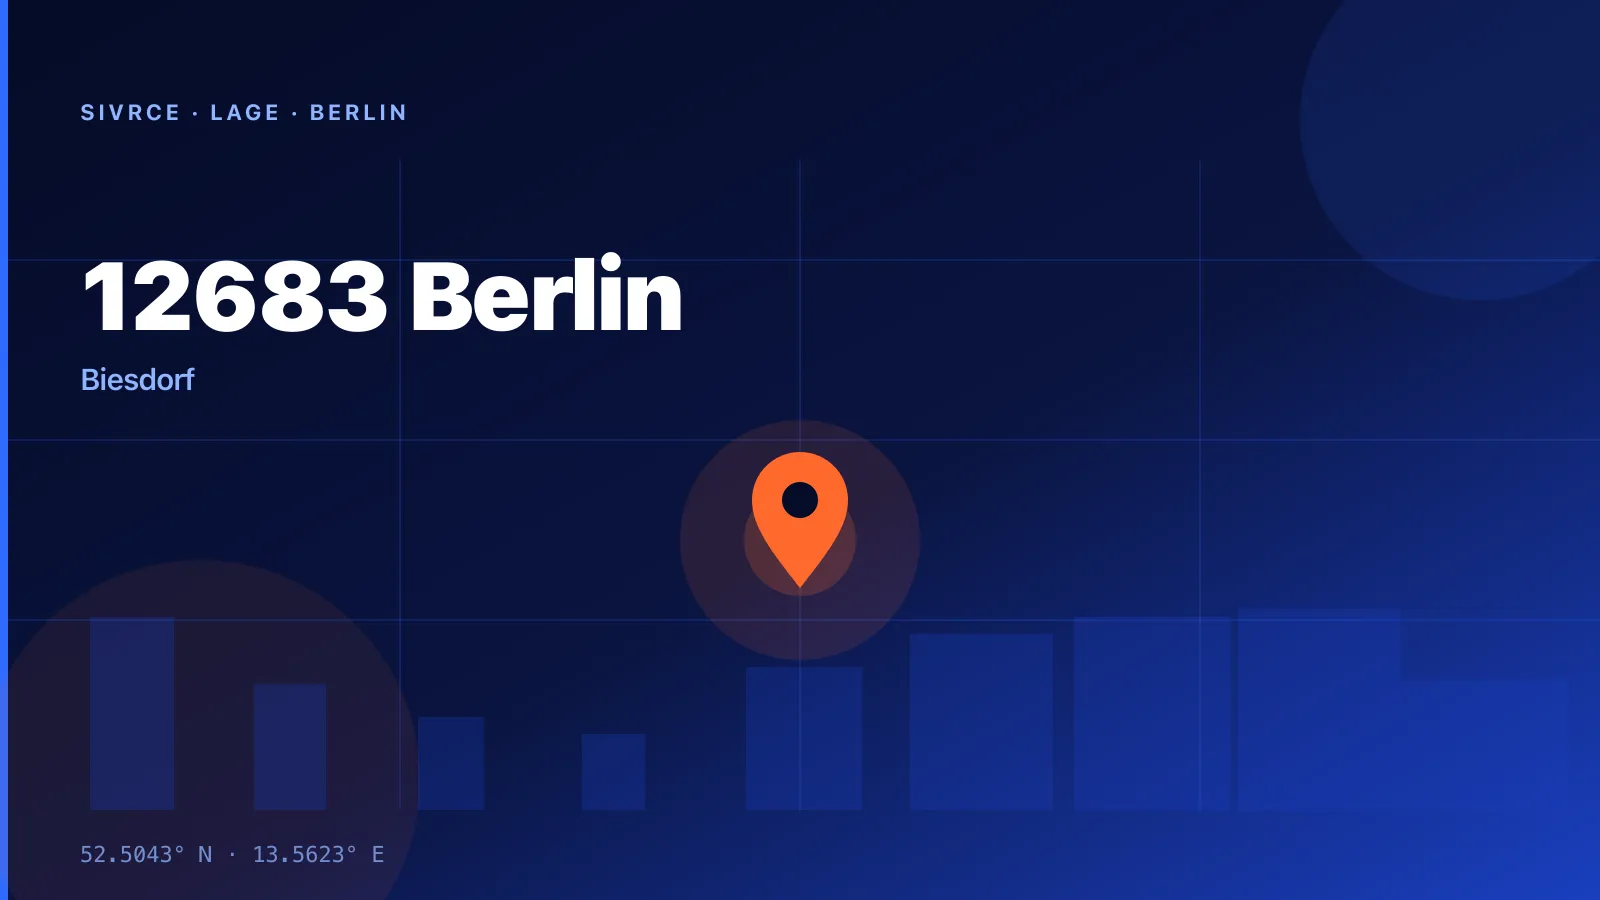
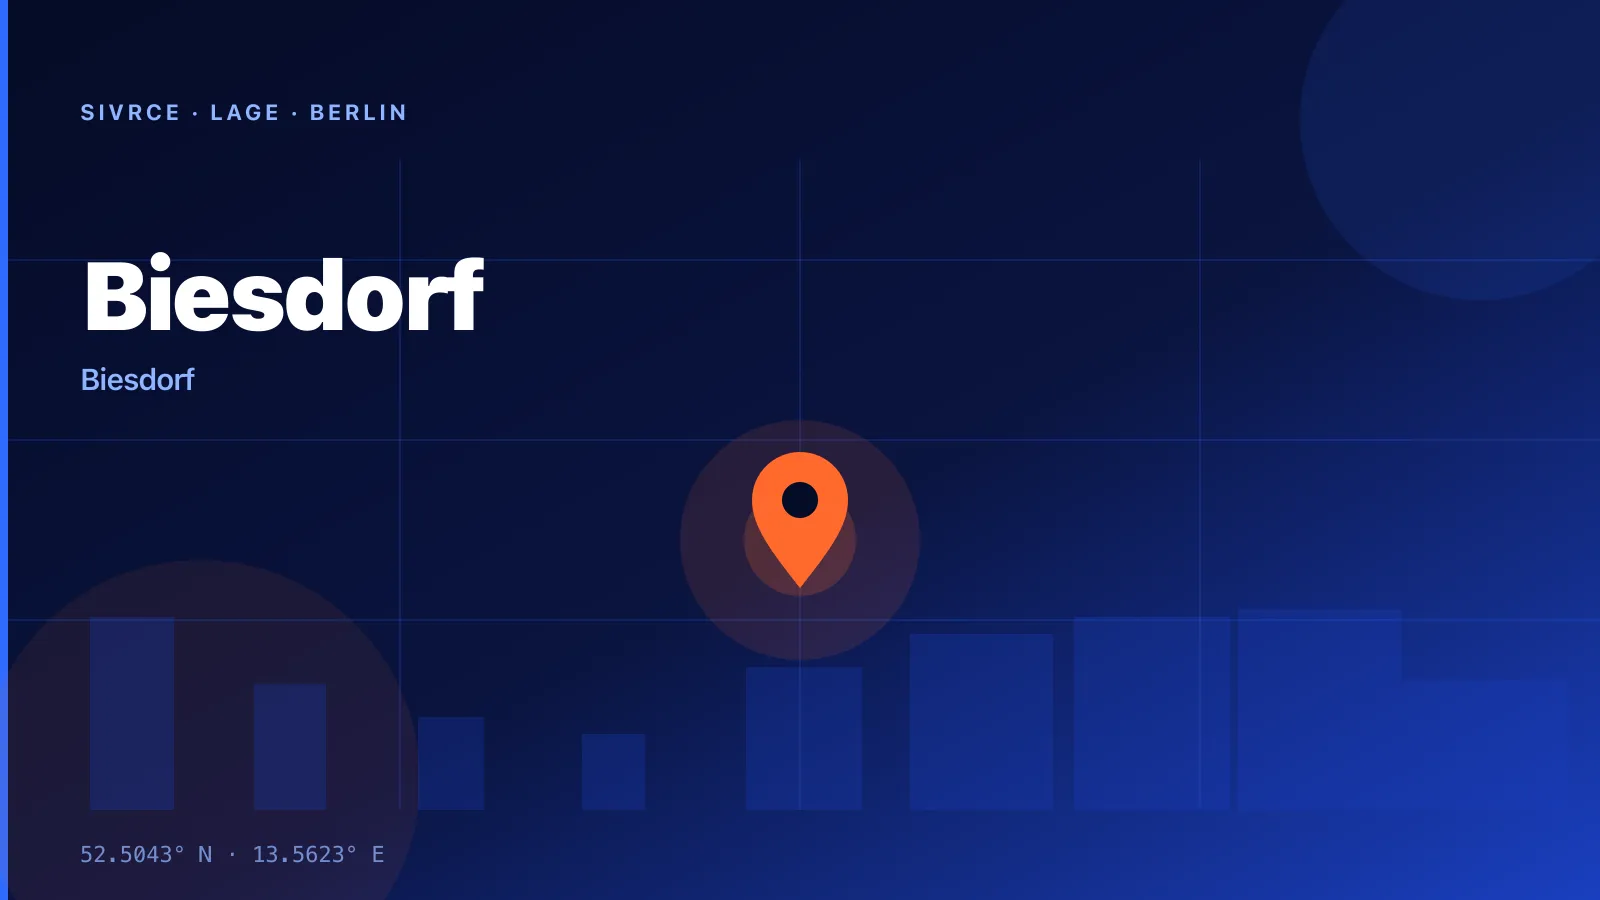
fix(de): lage card district parse + renders for new projects
Lage card showed '80933 München' (PLZ+city) instead of the district.
Strip PLZ, fall back to previous segment when it equals the city.
Regenerated 303 gallery cards; 216 images added covering the 43 new
Berlin projects (heroes were missing = 404 on live pages).

Changed region(s): [[0.0312, 0.28, 0.4375, 0.3733]]

diff --git a/app/scripts/gen-project-renders.ts b/app/scripts/gen-project-renders.ts
@@ -165,7 +165,9 @@ function lage(p: Project): Buffer {
   const lat = `${Math.abs(p.coords.lat).toFixed(4)}° ${p.coords.lat >= 0 ? 'N' : 'S'}`
   const lng = `${Math.abs(p.coords.lng).toFixed(4)}° ${p.coords.lng >= 0 ? 'E' : 'W'}`
   const parts = p.location.split(',').map((s) => s.trim())
-  const district = parts[parts.length - 1]
+  const city = cityOf(p).toLowerCase()
+  let district = (parts[parts.length - 1] ?? '').replace(/^\d{5}\s+/, '')
+  if (district.toLowerCase() === city && parts.length > 1) district = parts[parts.length - 2]
   const street = parts.slice(0, -1).join(', ')
   const svg = `<svg xmlns="http://www.w3.org/2000/svg" width="${W}" height="${H}" viewBox="0 0 ${W} ${H}">
   ${DEFS}
